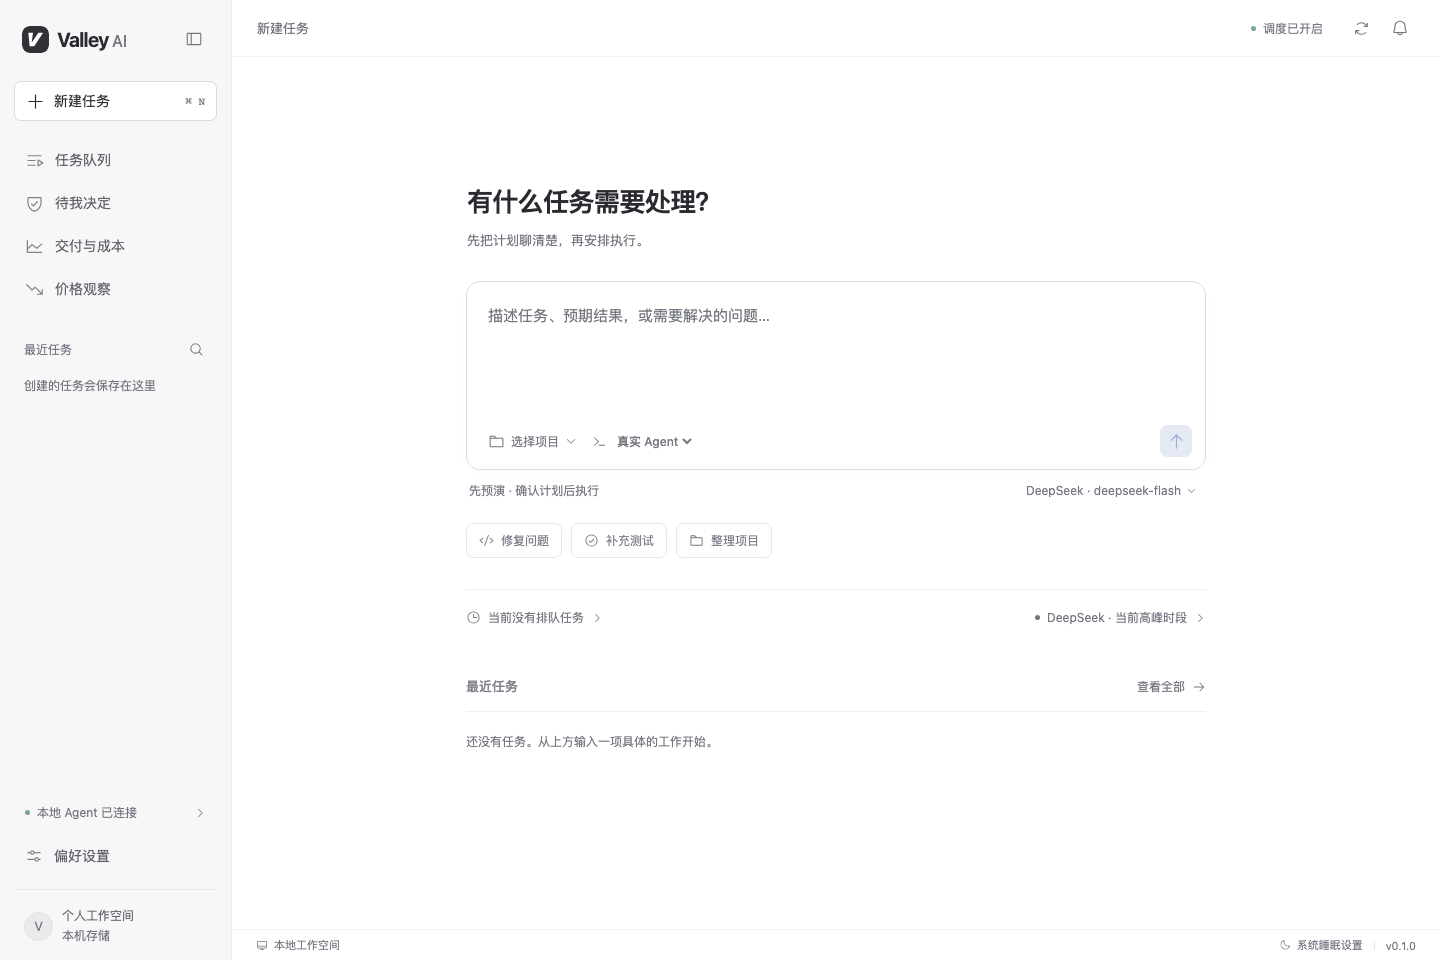
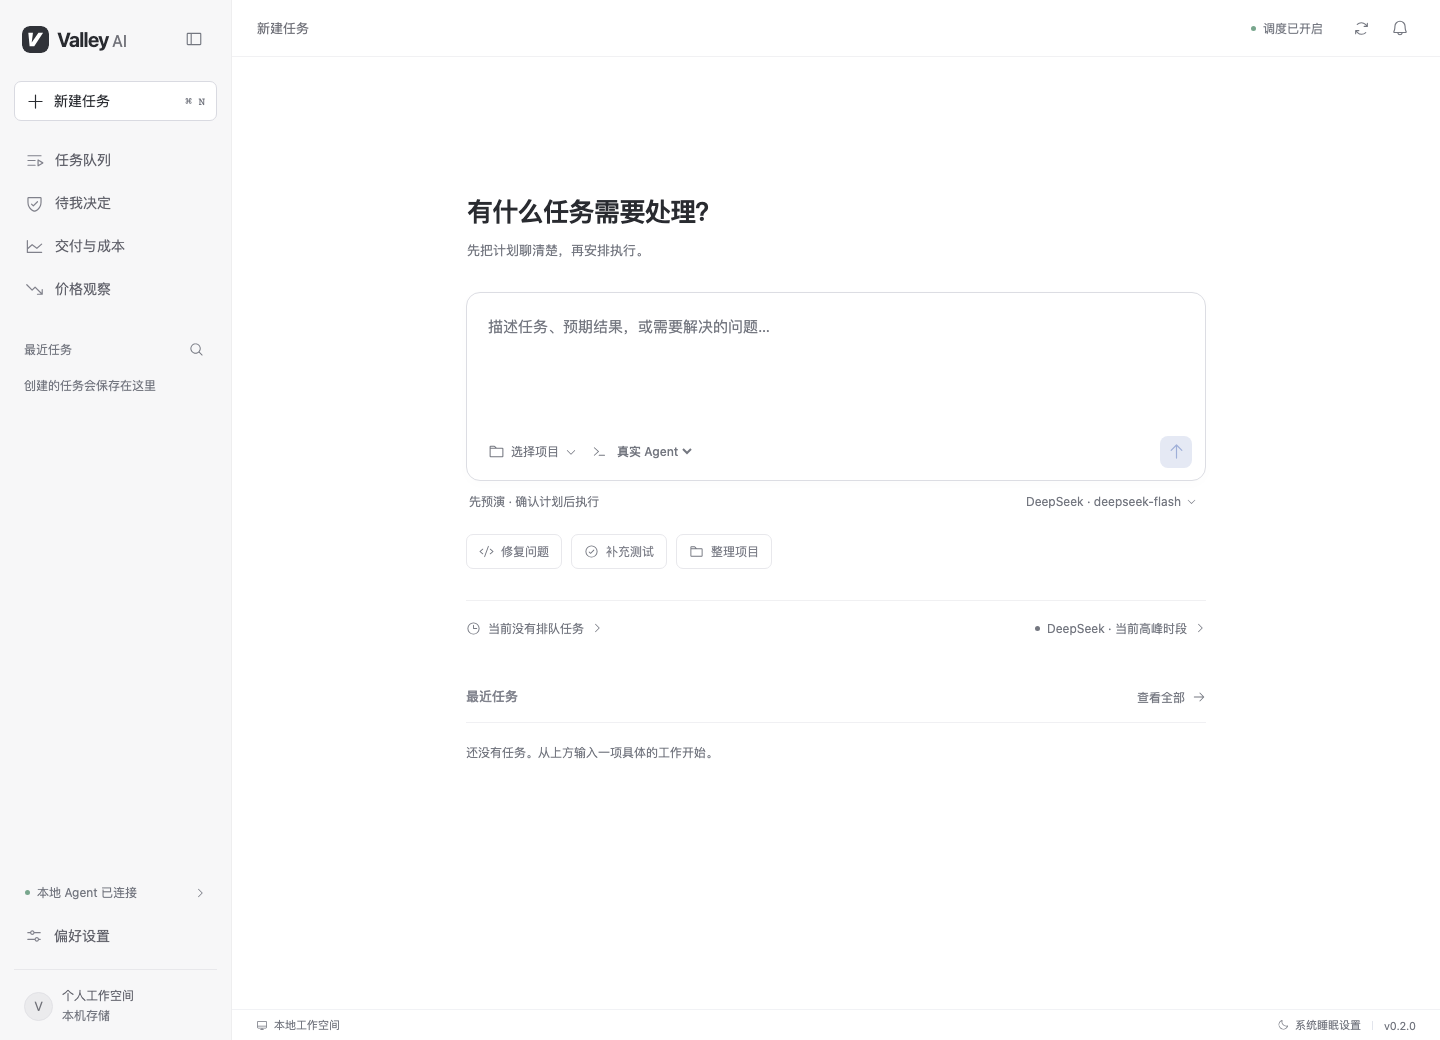
Publish 0.2.0 downloads and multi-model price line preview

diff --git a/index.html b/index.html
@@ -1,16 +1,16 @@
 <!doctype html>
 <html lang="zh-CN">
-<head><meta charset="utf-8"><meta name="viewport" content="width=device-width,initial-scale=1"><title>Valley AI — 先规划，再交给后台</title><meta name="description" content="面向编程 Agent 的桌面任务调度工具。预演计划、选择执行时段、处理审批，再查看代码变更和成本报告。适用于 macOS 与 Windows。"><meta name="theme-color" content="#f9f9f7"><meta property="og:title" content="Valley AI — 先规划，再交给后台"><meta property="og:description" content="为长任务留出时间。macOS 与 Windows 桌面应用。"><meta property="og:type" content="website"><link rel="icon" href="assets/icon.svg" type="image/svg+xml"><link rel="stylesheet" href="style.css"></head>
+<head><meta charset="utf-8"><meta name="viewport" content="width=device-width,initial-scale=1"><title>Valley AI — 先规划，再交给后台</title><meta name="description" content="面向编程 Agent 的桌面任务调度工具。预演计划、选择执行时段、处理审批，再查看代码变更和成本报告。适用于 macOS 与 Windows。"><meta name="theme-color" content="#f9f9f7"><meta property="og:title" content="Valley AI — 先规划，再交给后台"><meta property="og:description" content="为长任务留出时间。macOS 与 Windows 桌面应用。"><meta property="og:type" content="website"><link rel="icon" href="assets/icon.svg?v=0.2.0" type="image/svg+xml"><link rel="stylesheet" href="style.css?v=0.2.0"></head>
 <body>
 <a class="skip" href="#main">跳到正文</a>
-<header class="site-header"><a class="wordmark" href="#" aria-label="Valley AI 首页"><img class="mark" src="assets/icon.svg" alt="">Valley <span>AI</span></a><nav aria-label="导航"><a href="#workspace">工作方式</a><a href="#features">功能</a><a href="#download" class="nav-download">下载应用 <span aria-hidden="true">↗</span></a></nav></header>
+<header class="site-header"><a class="wordmark" href="#" aria-label="Valley AI 首页"><img class="mark" src="assets/icon.svg?v=0.2.0" alt="">Valley <span>AI</span></a><nav aria-label="导航"><a href="#workspace">工作方式</a><a href="#features">功能</a><a href="#download" class="nav-download">下载应用 <span aria-hidden="true">↗</span></a></nav></header>
 <main id="main">
 <section class="hero wrap"><div class="hero-copy"><div class="release-label">为编程 Agent 安排时间</div><h1>白天定好计划。<br><span>把进展留给后台。</span></h1><div class="hero-intro"><p>Valley AI 帮你安排编程 Agent 的长任务。<br>先预演，再确认执行时段，回来查看可验收的结果。</p><div class="hero-actions"><a class="button dark" href="#download">下载应用 <span aria-hidden="true">↓</span></a><a class="quiet-link" href="#workspace">看看它如何工作 <span aria-hidden="true">↗</span></a></div></div></div></section>
-<section id="workspace" class="workspace wrap"><div class="preview-head"><span>一个安静的工作区</span><span>macOS 与 Windows</span></div><div class="app-frame"><div class="window-bar"><div class="window-dots"><i></i><i></i><i></i></div><span>Valley AI</span><span class="window-type">macOS 预览版</span></div><img src="assets/workspace.png" alt="Valley AI 实际界面：左侧任务导航，中央任务输入区与最近任务列表" width="1440" height="960" fetchpriority="high"></div><div class="preview-caption"><p>描述任务，选择项目。<br><strong>从一个具体的需求开始。</strong></p><p>你可以继续补充要求、调整计划。<br>确认任务包以后，Agent 才会开始修改代码。</p></div></section>
-<section id="features" class="features wrap"><div class="section-heading"><h2>少一点跟进。<br>每一步仍然看得清。</h2></div><div class="feature-rows"><article><div><h3>先把任务想清楚</h3><p>把对话整理成执行步骤、验收标准和风险。继续讨论，直到计划符合预期。</p></div><span class="feature-tag">任务预演</span></article><article><div><h3>让执行时间有依据</h3><p>结合优先级、截止时间、模型单价和电力成本安排队列。每 30 分钟查询 DeepSeek 官方价格。</p></div><span class="feature-tag">成本调度</span></article><article><div><h3>该交给你决定时，就停下来</h3><p>命令权限与未确认的问题进入审批。预先确认且文字完全匹配的问题，可以自动回复。</p></div><span class="feature-tag">交互托管</span></article><article><div><h3>结果回到你的电脑</h3><p>在独立工作目录执行，保留变更和真实命令记录。完成后查看结果、用量与成本估算。</p></div><span class="feature-tag">本地交付</span></article></div></section>
-<section class="price-story wrap"><div class="price-copy"><span class="overline">DeepSeek 价格观察</span><h2>知道什么时候执行，<br>也知道为什么。</h2><p>价格有来源，更新时间可查看。过期的价格不会继续用于启动新的 DeepSeek 任务。</p><p class="fine-print">排程与费用均为估算，不保证最低账单；实际收费以服务商账单为准。</p><a class="quiet-link" href="https://api-docs.deepseek.com/zh-cn/quick_start/pricing/" target="_blank" rel="noopener noreferrer">查看 DeepSeek 官方定价 <span>↗</span></a></div><div class="price-preview"><img src="assets/prices.png" alt="Valley AI 价格观察页面，显示 DeepSeek 官方峰谷价格、来源与更新时间" width="1440" height="960" loading="eager"><p>来自应用的实际截图 · 价格会随官方更新</p></div></section>
+<section id="workspace" class="workspace wrap"><div class="preview-head"><span>一个安静的工作区</span><span>macOS 与 Windows</span></div><div class="app-frame"><div class="window-bar"><div class="window-dots"><i></i><i></i><i></i></div><span>Valley AI</span><span class="window-type">macOS 预览版</span></div><img src="assets/workspace.png?v=0.2.0" alt="Valley AI 实际界面：左侧任务导航，中央任务输入区与最近任务列表" width="1440" height="1040" fetchpriority="high"></div><div class="preview-caption"><p>描述任务，选择项目。<br><strong>从一个具体的需求开始。</strong></p><p>你可以继续补充要求、调整计划。<br>确认任务包以后，Agent 才会开始修改代码。</p></div></section>
+<section id="features" class="features wrap"><div class="section-heading"><h2>少一点跟进。<br>每一步仍然看得清。</h2></div><div class="feature-rows"><article><div><h3>先把任务想清楚</h3><p>把对话整理成执行步骤、验收标准和风险。继续讨论，直到计划符合预期。</p></div><span class="feature-tag">任务预演</span></article><article><div><h3>让执行时间有依据</h3><p>结合优先级、截止时间、模型单价和电力成本安排队列。每 30 分钟核验多家模型的官方报价。</p></div><span class="feature-tag">成本调度</span></article><article><div><h3>该交给你决定时，就停下来</h3><p>命令权限与未确认的问题进入审批。预先确认且文字完全匹配的问题，可以自动回复。</p></div><span class="feature-tag">交互托管</span></article><article><div><h3>结果回到你的电脑</h3><p>在独立工作目录执行，保留变更和真实命令记录。完成后查看结果、用量与成本估算。</p></div><span class="feature-tag">本地交付</span></article></div></section>
+<section class="price-story wrap"><div class="price-copy"><span class="overline">多模型价格观察</span><h2>选对模型，<br>也选好时间。</h2><p>DeepSeek、智谱、通义千问和 Kimi，用折线比较官方单价。按任务复杂度、用量、预算与可等待时间，生成有依据的模型配置建议。</p><p class="fine-print">DeepSeek 支持直接执行；其他模型目前用于选型参考。费用按预计用量比较，实际收费以服务商账单为准。</p><a class="quiet-link" href="https://api-docs.deepseek.com/zh-cn/quick_start/pricing/" target="_blank" rel="noopener noreferrer">查看 DeepSeek 官方定价 <span>↗</span></a></div><div class="price-preview"><img src="assets/prices.png?v=0.2.0" alt="Valley AI 实际价格观察页面，显示四家模型筛选、配置建议与未来 24 小时价格折线图" width="1440" height="1040" loading="eager"><p>来自应用的实际截图 · 价格会随官方更新</p></div></section>
 <section class="guard wrap"><div><h2>锁住屏幕，<br>后台继续工作。</h2><p>任务期间阻止电脑空闲睡眠，允许屏幕关闭；使用系统锁屏保护桌面。任务进展和需要处理的请求都保留在应用里。</p><p class="fine-print">请接通电源并保持应用运行。合盖、手动睡眠、关机与系统更新仍可能中断任务。</p></div></section>
-<section id="download" class="download wrap"><div class="download-intro"><h2>让下一项任务，<br>有自己的时间。</h2><p>Valley AI <span id="version">0.1.0</span> · 桌面预览版</p></div><div class="download-options"><article><div class="os-icon os-apple" aria-hidden="true"><svg xmlns="http://www.w3.org/2000/svg" viewBox="0 0 384 512" fill="currentColor"><!-- Font Awesome Free 7.3.1 by Fonticons, Inc. | CC BY 4.0 | https://fontawesome.com/license/free --><path d="M319.1 268.7c-.2-36.7 16.4-64.4 50-84.8-18.8-26.9-47.2-41.7-84.7-44.6-35.5-2.8-74.3 20.7-88.5 20.7-15 0-49.4-19.7-76.4-19.7-55.8 .9-115.1 44.5-115.1 133.2 0 26.2 4.8 53.3 14.4 81.2 12.8 36.7 59 126.7 107.2 125.2 25.2-.6 43-17.9 75.8-17.9 31.8 0 48.3 17.9 76.4 17.9 48.6-.7 90.4-82.5 102.6-119.3-65.2-30.7-61.7-90-61.7-91.9zM262.5 104.5c27.3-32.4 24.8-61.9 24-72.5-24.1 1.4-52 16.4-67.9 34.9-17.5 19.8-27.8 44.3-25.6 71.9 26.1 2 49.9-11.4 69.5-34.3z"/></svg></div><div><h3>macOS</h3><p>Apple Silicon · macOS 12 及以上</p><small id="mac-info">安装包准备中</small></div><a id="mac-download" class="button download-button disabled" aria-disabled="true">准备中 <span>↓</span></a></article><article><div class="os-icon os-windows" aria-hidden="true"><svg xmlns="http://www.w3.org/2000/svg" viewBox="0 0 448 512" fill="currentColor"><!-- Font Awesome Free 7.3.1 by Fonticons, Inc. | CC BY 4.0 | https://fontawesome.com/license/free --><path d="M0 93.7l183.6-25.3 0 177.4-183.6 0 0-152.1zM0 418.3l183.6 25.3 0-175.2-183.6 0 0 149.9zm203.8 28l244.2 33.7 0-211.6-244.2 0 0 177.9zm0-380.6l0 180.1 244.2 0 0-213.8-244.2 33.7z"/></svg></div><div><h3>Windows</h3><p>64 位 · Windows 10 / 11</p><small id="windows-info">安装包构建中</small></div><a id="windows-download" class="button download-button disabled" aria-disabled="true">构建中 <span>↓</span></a></article><div class="download-notes"><p>当前为未经平台认证的测试版。Mac 为 Apple 芯片版本；Intel Mac 暂未提供安装包。</p><p>真实任务需要 <a href="https://developers.openai.com/codex/cli" target="_blank" rel="noopener noreferrer">Codex CLI</a>、<a href="https://git-scm.com/downloads" target="_blank" rel="noopener noreferrer">Git</a> 和你自己的模型 API Key。手机端与云端执行尚未开放。</p><a id="release-link" href="https://github.com/CaliBG/valley-ai/releases" target="_blank" rel="noopener noreferrer">版本记录与文件校验 <span>↗</span></a></div></div></section>
+<section id="download" class="download wrap"><div class="download-intro"><h2>让下一项任务，<br>有自己的时间。</h2><p>Valley AI <span id="version">0.2.0</span> · 桌面预览版</p></div><div class="download-options"><article><div class="os-icon os-apple" aria-hidden="true"><svg xmlns="http://www.w3.org/2000/svg" viewBox="0 0 384 512" fill="currentColor"><!-- Font Awesome Free 7.3.1 by Fonticons, Inc. | CC BY 4.0 | https://fontawesome.com/license/free --><path d="M319.1 268.7c-.2-36.7 16.4-64.4 50-84.8-18.8-26.9-47.2-41.7-84.7-44.6-35.5-2.8-74.3 20.7-88.5 20.7-15 0-49.4-19.7-76.4-19.7-55.8 .9-115.1 44.5-115.1 133.2 0 26.2 4.8 53.3 14.4 81.2 12.8 36.7 59 126.7 107.2 125.2 25.2-.6 43-17.9 75.8-17.9 31.8 0 48.3 17.9 76.4 17.9 48.6-.7 90.4-82.5 102.6-119.3-65.2-30.7-61.7-90-61.7-91.9zM262.5 104.5c27.3-32.4 24.8-61.9 24-72.5-24.1 1.4-52 16.4-67.9 34.9-17.5 19.8-27.8 44.3-25.6 71.9 26.1 2 49.9-11.4 69.5-34.3z"/></svg></div><div><h3>macOS</h3><p>Apple Silicon · macOS 12 及以上</p><small id="mac-info">安装包准备中</small></div><a id="mac-download" class="button download-button disabled" aria-disabled="true">准备中 <span>↓</span></a></article><article><div class="os-icon os-windows" aria-hidden="true"><svg xmlns="http://www.w3.org/2000/svg" viewBox="0 0 448 512" fill="currentColor"><!-- Font Awesome Free 7.3.1 by Fonticons, Inc. | CC BY 4.0 | https://fontawesome.com/license/free --><path d="M0 93.7l183.6-25.3 0 177.4-183.6 0 0-152.1zM0 418.3l183.6 25.3 0-175.2-183.6 0 0 149.9zm203.8 28l244.2 33.7 0-211.6-244.2 0 0 177.9zm0-380.6l0 180.1 244.2 0 0-213.8-244.2 33.7z"/></svg></div><div><h3>Windows</h3><p>64 位 · Windows 10 / 11</p><small id="windows-info">安装包构建中</small></div><a id="windows-download" class="button download-button disabled" aria-disabled="true">构建中 <span>↓</span></a></article><div class="download-notes"><p>当前为未经平台认证的测试版。Mac 为 Apple 芯片版本；Intel Mac 暂未提供安装包。</p><p>真实任务需要 <a href="https://developers.openai.com/codex/cli" target="_blank" rel="noopener noreferrer">Codex CLI</a>、<a href="https://git-scm.com/downloads" target="_blank" rel="noopener noreferrer">Git</a> 和你自己的模型 API Key。手机端与云端执行尚未开放。</p><a id="release-link" href="https://github.com/CaliBG/valley-ai/releases" target="_blank" rel="noopener noreferrer">版本记录与文件校验 <span>↗</span></a></div></div></section>
 <section class="getting-started wrap"><h2>安装后，三步开始。</h2><ol><li><span>1</span><div><h3>连接执行环境</h3><p>在偏好设置中选择 Codex CLI，配置 DeepSeek Key。密钥保存到系统凭据库。</p></div></li><li><span>2</span><div><h3>选项目，说需求</h3><p>选择已提交且没有未提交修改的 Git 仓库，输入任务并生成计划。</p></div></li><li><span>3</span><div><h3>确认，再执行</h3><p>检查计划、时限和预算。任务完成后，在交付页查看结果并验收。</p></div></li></ol></section>
-</main><footer class="site-footer wrap"><a class="wordmark" href="#"><img class="mark" src="assets/icon.svg" alt="">Valley <span>AI</span></a><span>先规划，再交给后台。</span><a href="https://github.com/CaliBG/valley-ai/issues" target="_blank" rel="noopener noreferrer">反馈问题 ↗</a><small>© 2026 Valley AI</small></footer><script src="site.js"></script>
+</main><footer class="site-footer wrap"><a class="wordmark" href="#"><img class="mark" src="assets/icon.svg?v=0.2.0" alt="">Valley <span>AI</span></a><span>先规划，再交给后台。</span><a href="https://github.com/CaliBG/valley-ai/issues" target="_blank" rel="noopener noreferrer">反馈问题 ↗</a><small>© 2026 Valley AI</small></footer><script src="site.js?v=0.2.0"></script>
 </body></html>

diff --git a/site.js b/site.js
@@ -1,6 +1,6 @@
 (async()=>{
  try{
-  const response=await fetch('releases.json');if(!response.ok)throw new Error('Unavailable');const release=await response.json();
+  const response=await fetch('releases.json',{cache:'no-store'});if(!response.ok)throw new Error('Unavailable');const release=await response.json();
   document.getElementById('version').textContent=release.version;
   for(const platform of ['mac','windows']){
    const asset=release[platform];if(!asset?.url)continue;
